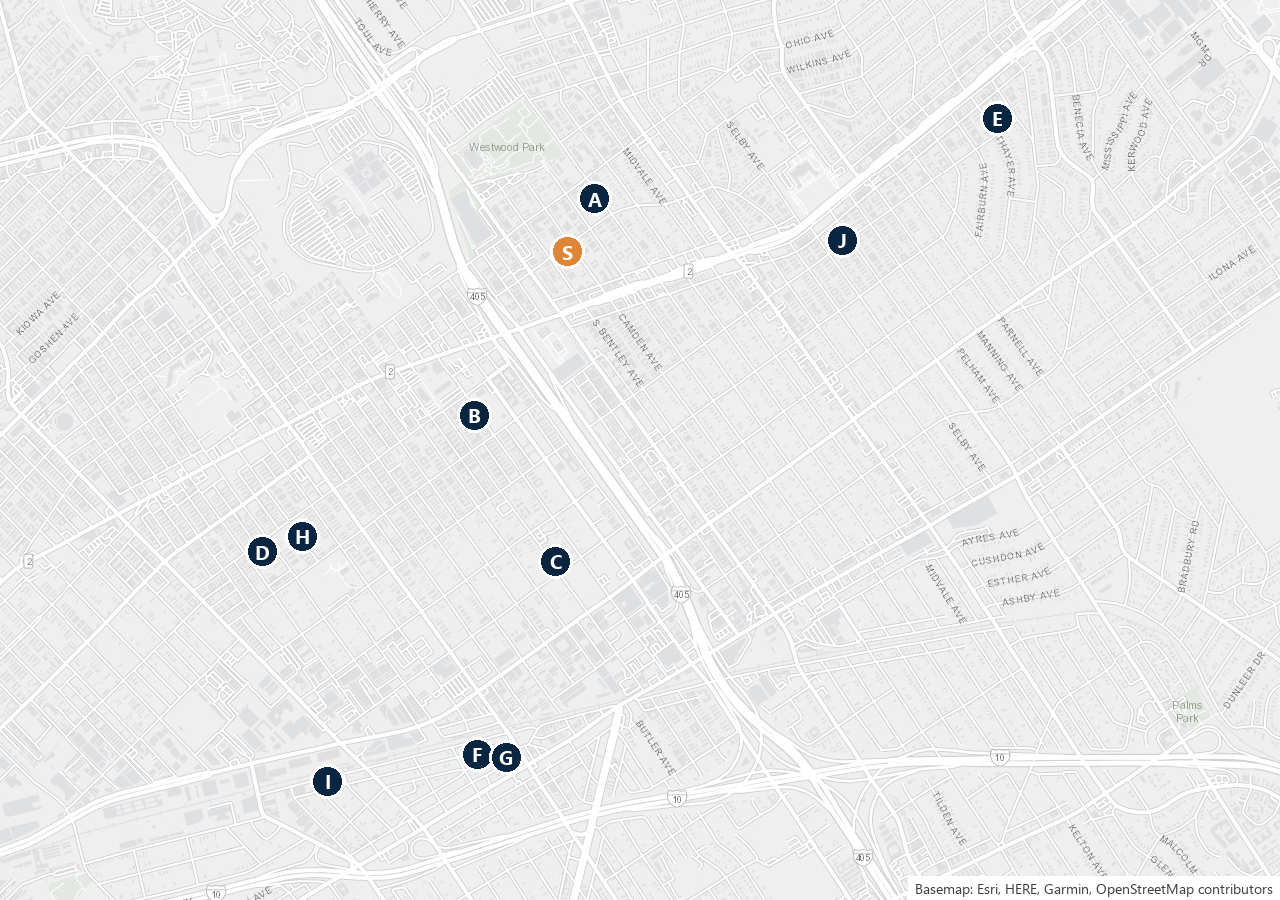
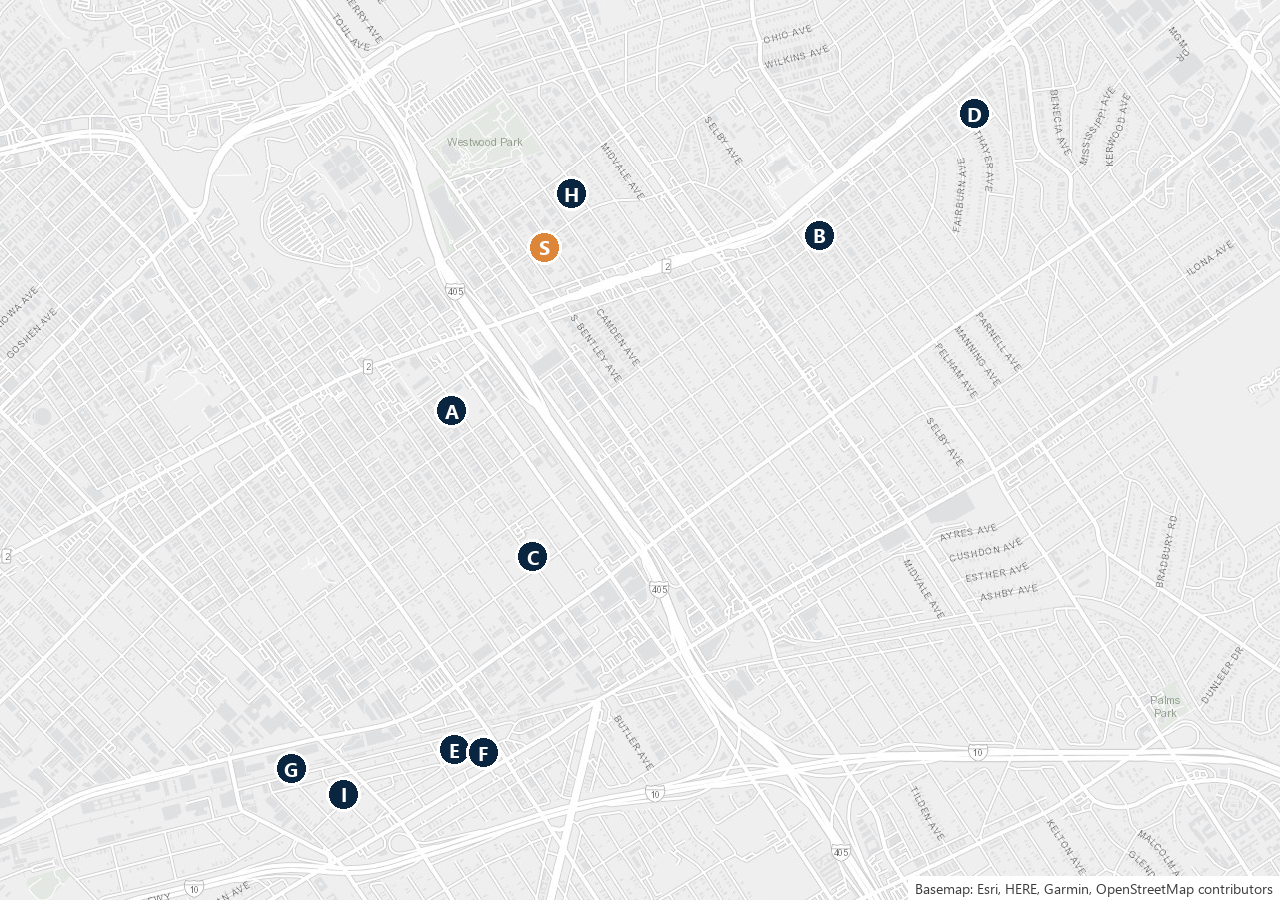
Land comps lettered A to I in table order; map pins match

diff --git a/index.html b/index.html
@@ -348,24 +348,24 @@ header .badge{display:inline-block;background:#2f8a55;color:#fff;font-size:12px;
   <h2>Land Sales Comparables</h2>
   <p>Seven closed redevelopment sites within about 1.5 miles, recorded from March 2025 to July 2026, plus two older sales that bear directly on this site. In each one the buyer pulled permits to demolish the existing building or to build new on the land. Sales where the buyer kept the building and only added ADUs behind it are shown separately below, because they were bought by a different buyer for a different plan.</p>
   <div class="img-frame" style="aspect-ratio:1280/900;margin-bottom:14px;background:#fff"><img src="images/comp_map.png" alt="Map of the subject and the land sale comparables"></div>
-  <div class="caption" style="margin-top:-6px;margin-bottom:10px">S is the subject. A and B are on [Q]R3 zoning within half a mile; J is the July 2026 Overland sale. D and H on the map were reviewed and left out (see the note below the table).</div>
+  <div class="caption" style="margin-top:-6px;margin-bottom:10px">S is the subject. A and H are on [Q]R3 zoning within half a mile; I is a 2024 affordable precedent.</div>
   <div class="table-scroll">
   <table>
     <tr><th>#</th><th>Address</th><th>Zoning</th><th class="num">Lot SF</th><th class="num">Sale Price</th><th class="num">$/Land SF</th><th>Closed</th><th>Site and Plans</th><th class="num">Dist.</th></tr>
     <tr><td>S</td><td class="addr"><b>1601 Camden Ave (subject)</b></td><td>[Q]R3</td><td class="num">7,411</td><td class="num">$2,000,000</td><td class="num"><span class="psf">$269.87</span></td><td>Proposed</td><td>1948 RSO duplex, corner lot</td><td class="num"></td></tr>
-    <tr><td>B</td><td class="addr">1723 S Corinth Ave</td><td>[Q]R3</td><td class="num">7,359</td><td class="num">$2,500,000</td><td class="num"><span class="psf hot">$339.72</span></td><td><span class="b-closed">Mar 2025</span></td><td>10-unit RSO building; demolition permit Dec 2025; 42-unit 100% affordable permit May 2026</td><td class="num">0.46 mi</td></tr>
-    <tr><td>J</td><td class="addr">1833 S Overland Ave</td><td>R3</td><td class="num">6,893</td><td class="num">$1,725,000</td><td class="num"><span class="psf">$250.25</span></td><td><span class="b-closed">Jul 2026</span></td><td>1937 duplex, delivered vacant; buyer filed in Aug 2026 for a four-story duplex with an attached ADU and a two-unit ADU building (5 units), and to demolish both houses in Oct 2026</td><td class="num">0.68 mi</td></tr>
+    <tr><td>A</td><td class="addr">1723 S Corinth Ave</td><td>[Q]R3</td><td class="num">7,359</td><td class="num">$2,500,000</td><td class="num"><span class="psf hot">$339.72</span></td><td><span class="b-closed">Mar 2025</span></td><td>10-unit RSO building; demolition permit Dec 2025; 42-unit 100% affordable permit May 2026</td><td class="num">0.46 mi</td></tr>
+    <tr><td>B</td><td class="addr">1833 S Overland Ave</td><td>R3</td><td class="num">6,893</td><td class="num">$1,725,000</td><td class="num"><span class="psf">$250.25</span></td><td><span class="b-closed">Jul 2026</span></td><td>1937 duplex, delivered vacant; buyer filed in Aug 2026 for a four-story duplex with an attached ADU and a two-unit ADU building (5 units), and to demolish both houses in Oct 2026</td><td class="num">0.68 mi</td></tr>
     <tr><td>C</td><td class="addr">2040 S Purdue Ave</td><td>R2</td><td class="num">6,986</td><td class="num">$1,700,000</td><td class="num"><span class="psf">$243.34</span></td><td><span class="b-closed">Oct 2025</span></td><td>House demolished; duplex plus 2-unit ADU building</td><td class="num">0.76 mi</td></tr>
-    <tr><td>E</td><td class="addr">1836 S Thayer Ave</td><td>R3</td><td class="num">6,753</td><td class="num">$1,825,000</td><td class="num"><span class="psf">$270.25</span></td><td><span class="b-closed">Jul 2026</span></td><td>House demolished; four new four-story homes and an ADU permitted Sep 2026</td><td class="num">1.11 mi</td></tr>
-    <tr><td>F</td><td class="addr">11729 W Tennessee Ave</td><td>R3</td><td class="num">4,985</td><td class="num">$1,300,000</td><td class="num"><span class="psf">$260.78</span></td><td><span class="b-closed">Oct 2025</span></td><td>House demolished; two new homes</td><td class="num">1.25 mi</td></tr>
-    <tr><td>G</td><td class="addr">11739 W Tennessee Ave</td><td>R3</td><td class="num">5,439</td><td class="num">$1,300,000</td><td class="num"><span class="psf">$239.01</span></td><td><span class="b-closed">Dec 2025</span></td><td>House demolished; two new homes</td><td class="num">1.26 mi</td></tr>
-    <tr><td>I</td><td class="addr">12222-12226 W Exposition Blvd (2 lots)</td><td>R3</td><td class="num">9,415</td><td class="num">$4,100,000</td><td class="num"><span class="psf hot">$435.48</span></td><td><span class="b-closed">May 2025</span></td><td>Two houses, $2,050,000 each on separate deeds; both demolished 2026. High outlier</td><td class="num">1.43 mi</td></tr>
+    <tr><td>D</td><td class="addr">1836 S Thayer Ave</td><td>R3</td><td class="num">6,753</td><td class="num">$1,825,000</td><td class="num"><span class="psf">$270.25</span></td><td><span class="b-closed">Jul 2026</span></td><td>House demolished; four new four-story homes and an ADU permitted Sep 2026</td><td class="num">1.11 mi</td></tr>
+    <tr><td>E</td><td class="addr">11729 W Tennessee Ave</td><td>R3</td><td class="num">4,985</td><td class="num">$1,300,000</td><td class="num"><span class="psf">$260.78</span></td><td><span class="b-closed">Oct 2025</span></td><td>House demolished; two new homes</td><td class="num">1.25 mi</td></tr>
+    <tr><td>F</td><td class="addr">11739 W Tennessee Ave</td><td>R3</td><td class="num">5,439</td><td class="num">$1,300,000</td><td class="num"><span class="psf">$239.01</span></td><td><span class="b-closed">Dec 2025</span></td><td>House demolished; two new homes</td><td class="num">1.26 mi</td></tr>
+    <tr><td>G</td><td class="addr">12222-12226 W Exposition Blvd (2 lots)</td><td>R3</td><td class="num">9,415</td><td class="num">$4,100,000</td><td class="num"><span class="psf hot">$435.48</span></td><td><span class="b-closed">May 2025</span></td><td>Two houses, $2,050,000 each on separate deeds; both demolished 2026. High outlier</td><td class="num">1.43 mi</td></tr>
     <tr class="avg"><td></td><td>Median, 2025 on (seven sales)</td><td></td><td class="num"></td><td class="num"></td><td class="num">$260.78</td><td></td><td></td><td></td></tr>
-    <tr><td>A</td><td class="addr">1521-1523 S Veteran Ave</td><td>[Q]R3</td><td class="num">8,501</td><td class="num">$2,570,000</td><td class="num"><span class="psf hot">$302.32</span></td><td><span class="b-closed">Oct 2024</span></td><td>RSO duplex; a 47-unit, six-story plan was on file from 2022 at the sale; duplex demolition permit Jan 2026</td><td class="num">0.15 mi</td></tr>
-    <tr><td></td><td class="addr">2245 S Amherst Ave</td><td>R3</td><td class="num">6,249</td><td class="num">$1,894,000</td><td class="num"><span class="psf hot">$303.09</span></td><td><span class="b-closed">Feb 2024</span></td><td>House demolished; 38-unit affordable building permitted Feb 2025</td><td class="num">1.45 mi</td></tr>
+    <tr><td>H</td><td class="addr">1521-1523 S Veteran Ave</td><td>[Q]R3</td><td class="num">8,501</td><td class="num">$2,570,000</td><td class="num"><span class="psf hot">$302.32</span></td><td><span class="b-closed">Oct 2024</span></td><td>RSO duplex; a 47-unit, six-story plan was on file from 2022 at the sale; duplex demolition permit Jan 2026</td><td class="num">0.15 mi</td></tr>
+    <tr><td>I</td><td class="addr">2245 S Amherst Ave</td><td>R3</td><td class="num">6,249</td><td class="num">$1,894,000</td><td class="num"><span class="psf hot">$303.09</span></td><td><span class="b-closed">Feb 2024</span></td><td>House demolished; 38-unit affordable building permitted Feb 2025</td><td class="num">1.45 mi</td></tr>
   </table>
   </div>
-  <p class="fn">Recorded prices and dates from LA County Assessor transfer records; lot sizes per the Assessor; zoning per ZIMAS and LADBS; plans per LADBS permits issued, plus the 2022 plan filing at 1521-1523 S Veteran, as of November 2026. $/SF is the recorded price over Assessor lot area. The seven 2025-on sales: median $260.78, average $291.26; without the Exposition outlier, average $267.23. The two 2024 sales are shown for what they show (the closest same-zone RSO duplex, and a second 100% affordable site) and are left out of the median; the county's verification code on the Veteran deed is blank. Reviewed and left out: 1722 S Westgate (D on the map, a new home with an ADU but no demolition of a house on record) and 11814-11824 W Iowa (H, three lots at $1,167,000 each, where only garages were demolished).</p>
+  <p class="fn">Recorded prices and dates from LA County Assessor transfer records; lot sizes per the Assessor; zoning per ZIMAS and LADBS; plans per LADBS permits issued, plus the 2022 plan filing at 1521-1523 S Veteran, as of November 2026. $/SF is the recorded price over Assessor lot area. The seven 2025-on sales: median $260.78, average $291.26; without the Exposition outlier, average $267.23. The two 2024 sales are shown for what they show (the closest same-zone RSO duplex, and a second 100% affordable site) and are left out of the median; the county's verification code on the Veteran deed is blank. Reviewed and left out: 1722 S Westgate (a new home with an ADU but no demolition of a house on record) and 11814-11824 W Iowa (three lots at $1,167,000 each, where only garages were demolished).</p>
   <h3>Keep-and-Add Sales: Buyers Who Kept the Building</h3>
   <div class="table-scroll">
   <table>
